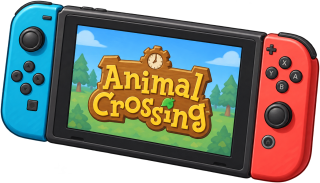
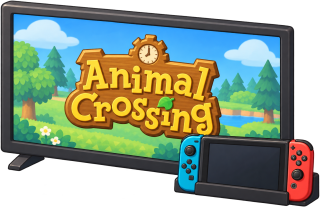
Magnifier le bouquet et enrichir les décorations de la prairie

diff --git a/src/config/decorations.ts b/src/config/decorations.ts
@@ -14,7 +14,7 @@ export const DECORATIONS: Record<DecorationId, DecorationDefinition> = {
   'bush': {name: 'Buisson', price: 20, area: 'outside', width: 1, height: 1, rotates: false, level: 1, art: {file: 'assets/decorations/bush.png', worldWidth: 44, anchor: {x: .5, y: 0.87}}},
   'tree': {name: 'Arbre', price: 30, area: 'outside', width: 2, height: 2, rotates: false, level: 1, art: {file: 'assets/decorations/tree.png', worldWidth: 138, anchor: {x: .5, y: 0.95}}},
   'hay-bale': {name: 'Botte de foin', price: 50, area: 'outside', width: 1, height: 1, rotates: false, level: 2, art: {file: 'assets/decorations/hay-bale.png', worldWidth: 43, anchor: {x: .5, y: 0.85}}},
-  'bunny-slippers': {name: 'Chaussons lapins', price: 30, area: 'outside', width: 1, height: 1, rotates: false, level: 3, art: {file: 'assets/decorations/bunny-slippers.png', worldWidth: 34, anchor: {x: .5, y: 0.8}}},
+  'bunny-slippers': {name: 'Chaussons lapins', price: 30, area: 'outside', width: 1, height: 1, rotates: false, level: 3, art: {file: 'assets/decorations/bunny-slippers.png', worldWidth: 68, anchor: {x: .5, y: 0.8}}},
   'birthday-candle': {name: 'Bougie « 1 an »', price: 50, area: 'outside', width: 2, height: 2, rotates: false, level: 5, art: {file: 'assets/decorations/birthday-candle.png', worldWidth: 82, anchor: {x: .5, y: 0.94}}},
   'small-bookcase': {name: 'Petite bibliothèque', price: 600, area: 'outside', width: 1, height: 1, rotates: false, level: 6, art: {file: 'assets/decorations/small-bookcase.png', worldWidth: 47, anchor: {x: .5, y: 0.93}}},
   'coconut-palm': {name: 'Cocotier', price: 800, area: 'outside', width: 2, height: 2, rotates: false, level: 8, art: {file: 'assets/decorations/coconut-palm.png', worldWidth: 150, anchor: {x: .5, y: 0.95}}},
@@ -27,11 +27,11 @@ export const DECORATIONS: Record<DecorationId, DecorationDefinition> = {
   'penguin-bookcase': {name: 'Armoire de livres Penguin', price: 5000, area: 'outside', width: 2, height: 1, rotates: false, level: 14, art: {file: 'assets/decorations/penguin-bookcase.png', worldWidth: 96, anchor: {x: .5, y: .93}}},
   'ironing-board': {name: 'Table à repasser jaune', price: 300, area: 'outside', width: 2, height: 1, rotates: false, level: 6, art: {file: 'assets/decorations/ironing-board.png', worldWidth: 70, anchor: {x: .5, y: .93}}},
   'climbing-rock': {name: 'Rocher d’escalade', price: 900, area: 'outside', width: 2, height: 2, rotates: false, level: 8, art: {file: 'assets/decorations/climbing-rock.png', worldWidth: 85, anchor: {x: .5, y: .93}}},
-  'white-bouquet': {name: 'Vase de fleurs blanches', price: 100, area: 'outside', width: 1, height: 1, rotates: false, level: 4, art: {file: 'assets/decorations/white-bouquet.png', worldWidth: 40, anchor: {x: .5, y: .93}}},
+  'white-bouquet': {name: 'Grand vase de fleurs blanches', price: 100, area: 'outside', width: 1, height: 1, rotates: false, level: 4, art: {file: 'assets/decorations/white-bouquet.png', worldWidth: 100, anchor: {x: .5, y: .93}}},
   'rabbit-fountain': {name: 'Vasque lapin en pierre', price: 1500, area: 'outside', width: 2, height: 2, rotates: false, level: 10, art: {file: 'assets/decorations/rabbit-fountain.png', worldWidth: 85, anchor: {x: .5, y: .93}}},
-  'shark-slippers': {name: 'Chaussons requins', price: 50, area: 'outside', width: 1, height: 1, rotates: false, level: 3, art: {file: 'assets/decorations/shark-slippers.png', worldWidth: 38, anchor: {x: .5, y: .8}}},
+  'shark-slippers': {name: 'Chaussons requins', price: 50, area: 'outside', width: 1, height: 1, rotates: false, level: 3, art: {file: 'assets/decorations/shark-slippers.png', worldWidth: 76, anchor: {x: .5, y: .8}}},
   'vintage-microscope': {name: 'Vaccin contre la tuberculose', price: 3500, area: 'outside', width: 2, height: 1, rotates: false, level: 15, art: {file: 'assets/decorations/vintage-microscope.png', worldWidth: 78, anchor: {x: .5, y: .93}}},
-  'game-console': {name: 'Nintendo Switch', price: 5000, area: 'outside', width: 2, height: 1, rotates: false, level: 16, art: {file: 'assets/decorations/game-console.png', worldWidth: 65, anchor: {x: .5, y: .93}}},
+  'game-console': {name: 'Nintendo Switch et télévision', price: 5000, area: 'outside', width: 2, height: 1, rotates: false, level: 16, art: {file: 'assets/decorations/game-console.png', worldWidth: 130, anchor: {x: .5, y: .93}}},
   'chocolate-cake': {name: 'Gâteau chocolat « je t’aime »', price: 150, area: 'outside', width: 2, height: 2, rotates: false, level: 5, art: {file: 'assets/decorations/chocolate-cake.png', worldWidth: 80, anchor: {x: .5, y: .93}}},
 };
 export const FINE_GRID = 4;

diff --git a/tests/decorations-v2.test.ts b/tests/decorations-v2.test.ts
@@ -14,9 +14,9 @@ const expected = [
  ['large-bookcase','Grande bibliothèque',4000,2,1,12], ['hanukkah-menorah','Ménorah de Hanoucca',2500,1,1,14],
  ['honey-pot','Pot de miel géant',70,2,2,4], ['robot-statue','Statue du robot noir et doré',15000,2,2,22],
  ['penguin-bookcase','Armoire de livres Penguin',5000,2,1,14], ['ironing-board','Table à repasser jaune',300,2,1,6],
- ['climbing-rock','Rocher d’escalade',900,2,2,8], ['white-bouquet','Vase de fleurs blanches',100,1,1,4],
+ ['climbing-rock','Rocher d’escalade',900,2,2,8], ['white-bouquet','Grand vase de fleurs blanches',100,1,1,4],
  ['rabbit-fountain','Vasque lapin en pierre',1500,2,2,10], ['shark-slippers','Chaussons requins',50,1,1,3],
- ['vintage-microscope','Vaccin contre la tuberculose',3500,2,1,15], ['game-console','Nintendo Switch',5000,2,1,16],
+ ['vintage-microscope','Vaccin contre la tuberculose',3500,2,1,15], ['game-console','Nintendo Switch et télévision',5000,2,1,16],
  ['chocolate-cake','Gâteau chocolat « je t’aime »',150,2,2,5],
 ] as const;
 describe('approved painted decorations', () => {

diff --git a/docs/decorations.md b/docs/decorations.md
@@ -64,14 +64,16 @@ Paramètres : `src/config/decorations.ts`. Les images peintes sont partagées en
 | `penguin-bookcase` | Armoire de livres Penguin | 5 000 | 2 × 1 | 14 |
 | `ironing-board` | Table à repasser jaune | 300 | 2 × 1 | 6 |
 | `climbing-rock` | Rocher d’escalade | 900 | 2 × 2 | 8 |
-| `white-bouquet` | Vase de fleurs blanches | 100 | 1 × 1 | 4 |
+| `white-bouquet` | Grand vase de fleurs blanches | 100 | 1 × 1 | 4 |
 | `rabbit-fountain` | Vasque lapin en pierre | 1 500 | 2 × 2 | 10 |
 | `shark-slippers` | Chaussons requins | 50 | 1 × 1 | 3 |
 | `vintage-microscope` | Vaccin contre la tuberculose | 3 500 | 2 × 1 | 15 |
-| `game-console` | Nintendo Switch | 5 000 | 2 × 1 | 16 |
+| `game-console` | Nintendo Switch et télévision | 5 000 | 2 × 1 | 16 |
 | `chocolate-cake` | Gâteau chocolat « je t’aime » | 150 | 2 × 2 | 5 |
 
 Le catalogue compte 22 modèles. Les neuf nouveautés du 29 octobre reprennent la planche peinte v2 approuvée par le propriétaire ; l’arbre existant reçoit une guirlande de lampes blanches en forme de têtes de lapin, éclairées en jaune. Son identifiant, son prix et ses dimensions restent inchangés, y compris pour les arbres déjà possédés. Le rocher d’escalade est une pierre à prises colorées. Le microscope ancien est accompagné de cinq fioles bleue, violette, verte, jaune et rouge. Les nouveaux achats utilisent seulement les pattes ; le robot conserve son prix existant en cœurs.
+
+Les retouches demandées ensuite agrandissent les deux paires de chaussons (largeurs affichées : 68 pour les lapins et 76 pour les requins) en conservant leurs dessins. Le vase devient un grand bouquet majestueux, mêlant plusieurs fleurs blanches et davantage de végétation, affiché en largeur 100. La guirlande effectue au moins trois tours autour de l’arbre. La décoration Nintendo Switch comprend désormais une télévision portant le logo Animal Crossing ; la largeur de l’ensemble passe à 130. Identifiants, prix, niveaux et emprises au sol sont conservés pour tous les exemplaires déjà possédés.
 
 Ces objets utilisent les circuits existants d’achat, de pose et de vente. Chaque nouveau modèle reçoit automatiquement sa mission « Installer » et les 10 XP de première pose déjà prévus par le catalogue ; aucun coefficient de progression n’est modifié. Les quatre collections de souvenirs existantes conservent leurs listes de modèles. Les anciennes sauvegardes v21 restent acceptées ; une ancienne build ne connaît pas les neuf nouveaux identifiants.
 
